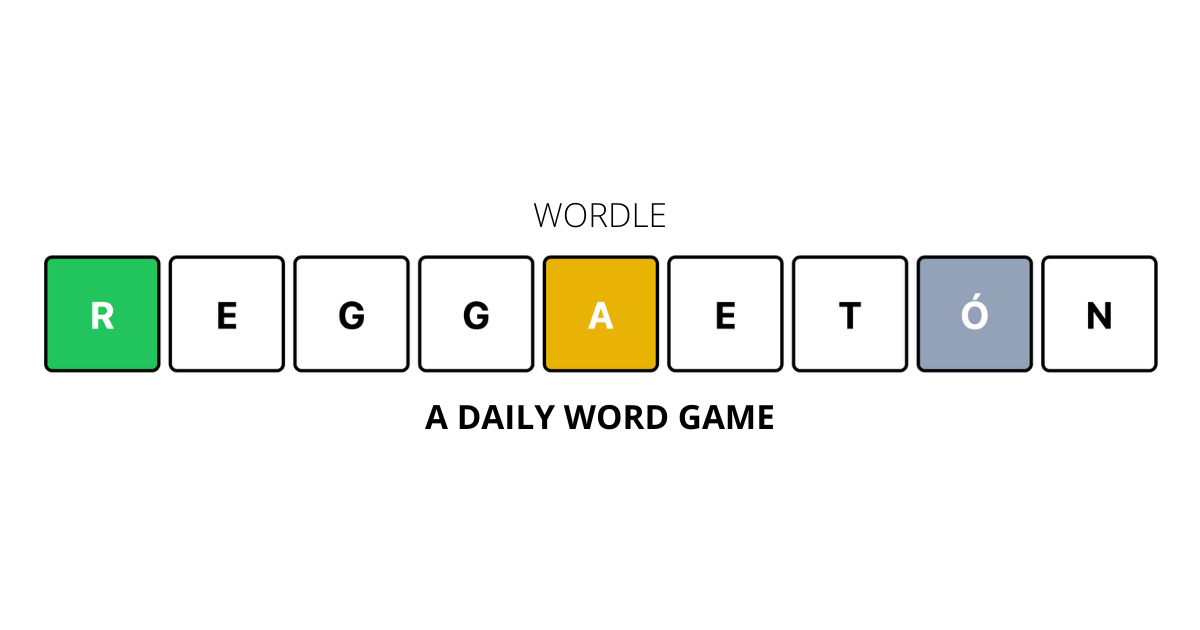
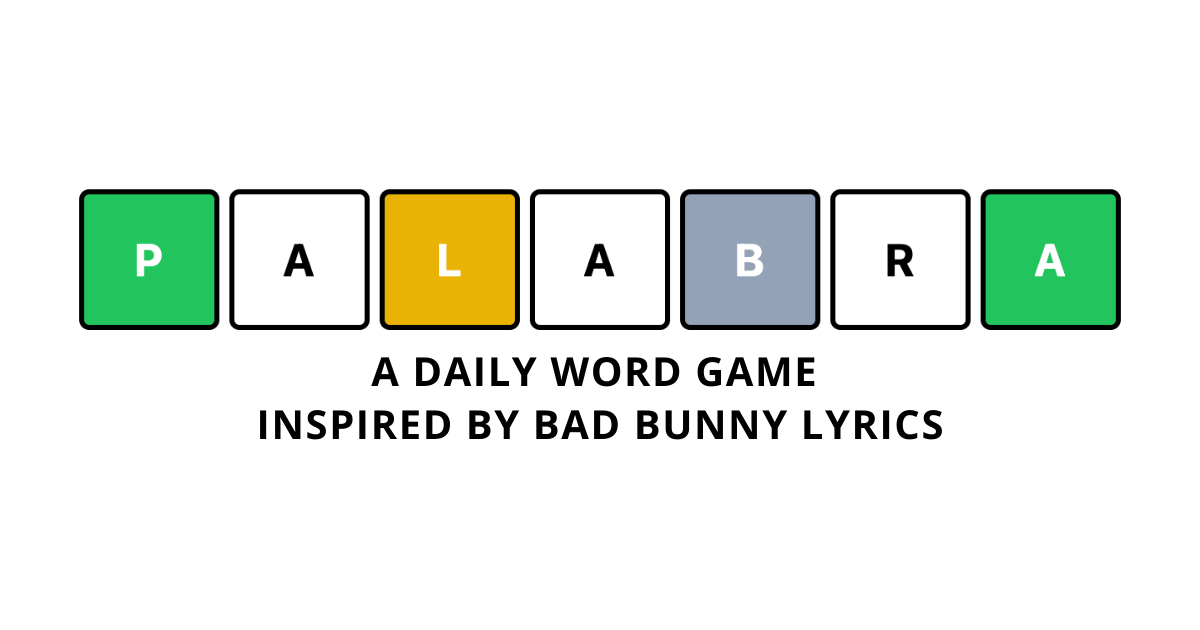
change name, wordlists, add spotify url, image...

Changed region(s): [[0.0308, 0.3016, 0.9867, 0.6937]]

diff --git a/pages/index.tsx b/pages/index.tsx
@@ -1,6 +1,4 @@
-import { useState, useEffect } from 'react'
-import { InformationCircleIcon } from '@heroicons/react/outline'
-import { ChartBarIcon } from '@heroicons/react/outline'
+import { useState, useEffect, memo } from 'react'
 
 import { AboutModal } from '../components/modals/AboutModal'
 import { Alert } from '../components/alerts/Alert'
@@ -14,8 +12,9 @@ import { WinModal } from '../components/modals/WinModal'
 import { isWordInWordList, isWinningWord, solution } from '../lib/words'
 import { addStatsForCompletedGame, loadStats } from '../lib/stats'
 import { loadGameStateFromLocalStorage, saveGameStateToLocalStorage } from '../lib/localStorage'
+import { WORDS } from '../constants/wordlist'
 
-function App() {
+const Index = () => {
   const [currentGuess, setCurrentGuess] = useState('')
   const [isGameWon, setIsGameWon] = useState(false)
   const [isWinModalOpen, setIsWinModalOpen] = useState(false)
@@ -95,25 +94,44 @@ function App() {
       }
     }
   }
+  const wordInfo = WORDS.find((w) => {
+    return w.word === solution.toLocaleLowerCase()
+  })
 
   return (
     <>
       <Meta />
       <div className="py-8 max-w-7xl mx-auto px-3 sm:px-6 lg:px-8 flex flex-col h-screen justify-between">
-        <div className="flex flex-col max-w-md mx-auto items-center mb-1">
-          <div className="flex items-center w-full">
-            <h1 className="text-3xl grow font-bold">Reggaetón Wordle</h1>
-            <InformationCircleIcon
-              className="h-6 w-6 cursor-pointer"
+        <div className="flex flex-col max-w-md mx-auto items-center sm:mb-1">
+          <div className="flex items-center w-full mb-1">
+            <h1 className="text-3xl sm:text-4xl grow font-bold">La Palabra</h1>
+            <button
+              className="p-2 flex items-center justify-center rounded mx-0.5 text-xs font-medium cursor-pointer select-none bg-slate-200 hover:bg-slate-300 active:bg-slate-400"
               onClick={() => setIsInfoModalOpen(true)}
-            />
-            <ChartBarIcon
-              className="h-6 w-6 cursor-pointer"
+            >
+              How to play
+            </button>
+            <button
+              className="p-2 flex items-center justify-center rounded mx-0.5 text-xs font-medium cursor-pointer select-none bg-slate-200 hover:bg-slate-300 active:bg-slate-400"
               onClick={() => setIsStatsModalOpen(true)}
-            />
+            >
+              Stats
+            </button>
           </div>
-          <div className="max-w-md mx-auto mb-4 sm:mb-8">
-            <h2 className="italic">The word is one of Bad Bunny's most used in his lyrics.</h2>
+          <div className="max-w-sm mb-2 sm:mb-8">
+            <h2 className="sm:text-lg">
+              Today's word comes from Bad Bunny's song{' '}
+              <span className="italic font-medium">{wordInfo.song}</span> (
+              <a
+                href={wordInfo.spotifyUrl}
+                className="underline text-gray-500 hover:text-gray-600 transition"
+                target="_blank"
+                rel="noreferrer"
+              >
+                hear it on Spotify
+              </a>
+              ).
+            </h2>
           </div>
         </div>
         <Grid guesses={guesses} currentGuess={currentGuess} />
@@ -121,7 +139,7 @@ function App() {
           <Keyboard onChar={onChar} onDelete={onDelete} onEnter={onEnter} guesses={guesses} />
           <button
             type="button"
-            className="mx-auto mt-8 flex items-center px-2.5 py-1.5 border border-transparent text-xs font-medium rounded text-indigo-700 bg-indigo-100 hover:bg-indigo-200 focus:outline-none focus:ring-2 focus:ring-offset-2 focus:ring-indigo-500 select-none"
+            className="mx-auto mt-8 flex items-center px-2.5 py-1.5 border border-transparent text-xs font-medium rounded text-black bg-indigo-100 hover:bg-indigo-200 focus:outline-none focus:ring-2 focus:ring-offset-2 focus:ring-indigo-500 select-none"
             onClick={() => setIsAboutModalOpen(true)}
           >
             About this game
@@ -156,4 +174,4 @@ function App() {
   )
 }
 
-export default App
+export default memo(Index)

diff --git a/constants/wordlist.ts b/constants/wordlist.ts
@@ -1,26 +1,92 @@
 export const WORDS = [
-  'krippy',
-  'cuando',
-  'porque',
-  'quiere',
-  'krippy',
-  'arriba',
-  'perreo',
-  'aunque',
-  'tiempo',
-  'tienen',
-  'olvido',
-  'dinero',
-  'encima',
-  'llamas',
-  'carajo',
-  'siento',
-  'pienso',
-  'mañana',
-  'siente',
-  'prende',
-  'picheo',
-  'dentro',
-  'volver',
-  'conejo'
+  {
+    word: 'krippy',
+    song: 'Hablamos Mañana',
+    spotifyUrl: 'https://open.spotify.com/track/1V8XneTrX6kKeoxYbk4x6h'
+  },
+  {
+    word: 'cuando',
+    song: 'Dákiti',
+    spotifyUrl: 'https://open.spotify.com/track/47EiUVwUp4C9fGccaPuUCS'
+  },
+  {
+    word: 'sobran',
+    song: 'Estamos Bien',
+    spotifyUrl: 'https://open.spotify.com/track/2OWVCFTolecLiGZPquvWvT'
+  },
+  {
+    word: 'perreo',
+    song: 'La Santa',
+    spotifyUrl: 'https://open.spotify.com/track/69vlMrzHwATKzupwNcUPyK'
+  },
+  {
+    word: 'entera',
+    song: 'No Me Conoce - Remix',
+    spotifyUrl: 'https://open.spotify.com/track/4R8BJggjosTswLxtkw8V7P'
+  },
+  {
+    word: 'tiempo',
+    song: 'De Museo',
+    spotifyUrl: 'https://open.spotify.com/track/267NGliXM8YLVZiKAD9Otm'
+  },
+  {
+    word: 'tienen',
+    song: 'Hoy Cobré',
+    spotifyUrl: 'https://open.spotify.com/track/0tjZv2hChdHZCW1zFXpy1J'
+  },
+  {
+    word: 'olvido',
+    song: 'Triste',
+    spotifyUrl: 'https://open.spotify.com/track/7narbj6zkSW1SnMhAPep0u'
+  },
+  {
+    word: 'dinero',
+    song: 'Me Llueven',
+    spotifyUrl: 'https://open.spotify.com/track/2Iv7PCElmi1dZfzHWzMczA'
+  },
+  {
+    word: 'encima',
+    song: 'La Noche de Anoche',
+    spotifyUrl: 'https://open.spotify.com/track/2XIc1pqjXV3Cr2BQUGNBck'
+  },
+  {
+    word: 'itachi',
+    song: 'Yonaguni',
+    spotifyUrl: 'https://open.spotify.com/track/2JPLbjOn0wPCngEot2STUS'
+  },
+  {
+    word: 'carajo',
+    song: 'Te Boté',
+    spotifyUrl: 'https://open.spotify.com/track/3V8UKqhEK5zBkBb6d6ub8i'
+  },
+  {
+    word: 'mañana',
+    song: 'Sensualidad',
+    spotifyUrl: 'https://open.spotify.com/track/5hcisvFMidkMJlElTO9Qmw'
+  },
+  {
+    word: 'prende',
+    song: 'La Cartera',
+    spotifyUrl: 'https://open.spotify.com/track/1g2Z2lOrwayOzDqOc8EfbR'
+  },
+  {
+    word: 'bebida',
+    song: 'Callaíta',
+    spotifyUrl: 'https://open.spotify.com/track/2TH65lNHgvLxCKXM3apjxI'
+  },
+  {
+    word: 'pensar',
+    song: 'Ni Bien Ni Mal',
+    spotifyUrl: 'https://open.spotify.com/track/278kSqsZIiYp8p3QjYAqa8'
+  },
+  {
+    word: 'volver',
+    song: 'Que Pretendes',
+    spotifyUrl: 'https://open.spotify.com/track/25ZAibhr3bdlMCLmubZDVt'
+  },
+  {
+    word: 'probar',
+    song: 'Mia',
+    spotifyUrl: 'https://open.spotify.com/track/116H0KvKr2Zl4RPuVBruDO'
+  }
 ]

diff --git a/components/Meta.tsx b/components/Meta.tsx
@@ -3,11 +3,11 @@ import Script from 'next/script'
 
 export default function Container() {
   const meta = {
-    title: 'Reggaetón Wordle',
-    description: "Guess the word based on Bad Bunny's lyrics",
+    title: 'La Palabra',
+    description: "A daily word game based on Bad Bunny's lyrics",
     type: 'website',
-    url: 'https://wordle.luciovilla.com/',
-    image: 'https://wordle.luciovilla.com/site.png'
+    url: 'https://palabra.luciovilla.com/',
+    image: 'https://palabra.luciovilla.com/site.png'
   }
 
   return (
@@ -26,7 +26,7 @@ export default function Container() {
         <meta name="twitter:image" content={meta.image} />
       </Head>
       <Script
-        src="https://www.googletagmanager.com/gtag/js?id=G-FYFF9N9JPV"
+        src="https://www.googletagmanager.com/gtag/js?id=G-QGB30Q1CH1"
         strategy="afterInteractive"
       />
       <Script id="google-analytics" strategy="afterInteractive">
@@ -34,7 +34,7 @@ export default function Container() {
             window.dataLayer = window.dataLayer || [];
             function gtag(){dataLayer.push(arguments);}
             gtag('js', new Date());
-            gtag('config', 'G-FYFF9N9JPV');
+            gtag('config', 'G-QGB30Q1CH1');
         `}
       </Script>
     </>

diff --git a/lib/words.ts b/lib/words.ts
@@ -2,7 +2,10 @@ import { WORDS } from '../constants/wordlist'
 import { VALIDGUESSES } from '../constants/validGuesses'
 
 export const isWordInWordList = (word: string) => {
-  return WORDS.includes(word.toLowerCase()) || VALIDGUESSES.includes(word.toLowerCase())
+  return (
+    WORDS.some((e) => e.word === word.toLocaleLowerCase()) ||
+    VALIDGUESSES.includes(word.toLowerCase())
+  )
 }
 
 export const isWinningWord = (word: string) => {
@@ -10,15 +13,15 @@ export const isWinningWord = (word: string) => {
 }
 
 export const getWordOfDay = () => {
-  // 1643000400000 == January 24, 2022 5:00 AM Game Epoch timestamp in milliseconds
+  // 1643173200 == January 26, 2022 12:00 AM Game Epoch timestamp in milliseconds
   // Get Epoch time from: https://www.epochconverter.com
-  const epochMs = 1643000400000
+  const epochMs = 1643086800000
   const now = Date.now()
   const msInDay = 86400000
   const index = Math.floor((now - epochMs) / msInDay)
 
   return {
-    solution: WORDS[index].toUpperCase(),
+    solution: WORDS[index]['word'].toUpperCase(),
     solutionIndex: 0 + 1
   }
 }

diff --git a/components/modals/InfoModal.tsx b/components/modals/InfoModal.tsx
@@ -14,17 +14,16 @@ export const InfoModal = ({ isOpen, handleClose }: Props) => {
         close your guess was to the word.
       </p>
 
-      <p className="text-sm text-gray-500">
-        The word is one of Bad Bunny's most used in his lyrics.
-      </p>
+      <p className="text-sm text-gray-500">The word is pulled from Bad Bunny's lyrics.</p>
 
       <div className="flex justify-center mb-1 mt-4">
         <Cell value="P" status="correct" />
-        <Cell value="E" />
+        <Cell value="A" />
+        <Cell value="L" status="present" />
+        <Cell value="A" />
+        <Cell value="B" status="absent" />
         <Cell value="R" />
-        <Cell value="R" />
-        <Cell value="E" />
-        <Cell value="O" />
+        <Cell value="A" status="correct" />
       </div>
       <p className="text-sm text-gray-500">The letter P is in the word and in the correct spot.</p>
 

diff --git a/components/modals/WinModal.tsx b/components/modals/WinModal.tsx
@@ -19,12 +19,9 @@ export const WinModal = ({ isOpen, handleClose, guesses, handleShare }: Props) =
           <CheckIcon className="h-6 w-6 text-green-600" aria-hidden="true" />
         </div>
         <div className="mt-3 text-center sm:mt-5">
-          <Dialog.Title as="h3" className="text-lg leading-6 font-medium text-gray-900">
-            You won!
-          </Dialog.Title>
           <div className="mt-2">
             <MiniGrid guesses={guesses} />
-            <p className="text-sm text-gray-500">Great job.</p>
+            <p className="text-sm text-gray-500">¡Así se hace!</p>
           </div>
         </div>
       </div>

diff --git a/components/modals/AboutModal.tsx b/components/modals/AboutModal.tsx
@@ -10,7 +10,7 @@ export const AboutModal = ({ isOpen, handleClose }: Props) => {
     <BaseModal title="About" isOpen={isOpen} handleClose={handleClose}>
       <p className="text-sm text-gray-500">
         This is an open source clone of the game Wordle -{' '}
-        <a href="https://github.com/luciovilla/wordle" className="underline font-bold">
+        <a href="https://github.com/luciovilla/palabra" className="underline font-bold">
           check out the code
         </a>{' '}
         and{' '}

diff --git a/components/grid/Cell.tsx b/components/grid/Cell.tsx
@@ -22,7 +22,7 @@ export const Cell = ({ value, status }: Props) => {
 
   return (
     <div
-      className={`w-full before:content-[''] before:pb-[100%] border-solid border-2 flex items-center justify-center mx-0.5 text-lg font-bold rounded ${classes} ${cellAnimation}`}
+      className={`w-12 sm:w-14 h-12 sm:h-14 border-solid border-2 flex items-center justify-center mx-0.5 text-lg font-bold rounded ${classes} ${cellAnimation}`}
     >
       {textValue}
     </div>

diff --git a/components/grid/Grid.tsx b/components/grid/Grid.tsx
@@ -11,7 +11,7 @@ export const Grid = ({ guesses, currentGuess }: Props) => {
   const empties = guesses.length < 6 ? Array.from(Array(5 - guesses.length)) : []
 
   return (
-    <div className="items-center pb-6">
+    <div className="items-center sm:pb-6">
       <div className="max-w-sm mx-auto">
         {guesses.map((guess, i) => (
           <CompletedRow key={i} guess={guess} />

diff --git a/components/alerts/Alert.tsx b/components/alerts/Alert.tsx
@@ -30,7 +30,7 @@ export const Alert = ({ isOpen, message, variant = 'warning' }: Props) => {
     >
       <div className={classes}>
         <div className="p-4">
-          <p className="text-sm text-center font-medium text-gray-900">{message}</p>
+          <p className="text-sm text-center font-medium text-gray-900">{message}.</p>
         </div>
       </div>
     </Transition>

diff --git a/README.md b/README.md
@@ -1,10 +1,10 @@
-# Reggaetón Wordle Clone
+# La Palabra
 
-A clone of the popular game Wordle made using Next.js, TypeScript and Tailwind CSS where the daily word is one of Bad Bunny's most used 6-letter words in his lyrics (Python notebook coming soon).
+A clone of the popular game Wordle made using Next.js, TypeScript and Tailwind CSS where the daily word is pulled from Bad Bunny's lyrics (Python notebook coming soon).
 
 - Go play the real Wordle [here](https://www.powerlanguage.co.uk/wordle/)
 - Read the story behind it [here](https://www.nytimes.com/2022/01/03/technology/wordle-word-game-creator.html)
-- Try a demo of this clone project [here](https://wordle.luciovilla.com)
+- Try a demo of this clone project [here](https://palabra.luciovilla.com)
 
 _Inspiration:_
 This game is a clone of an open source project ([by Hannah Park](https://github.com/hannahcode/wordle)) of the immensely popular online word guessing game Wordle.
@@ -16,7 +16,6 @@ Clone the repository and perform the following command line actions:
 $ cd wordle
 $ yarn
 $ yarn dev
-
-open http://localhost:3000 in browser.
-
 ```
+
+Then open http://localhost:3000 in browser.
